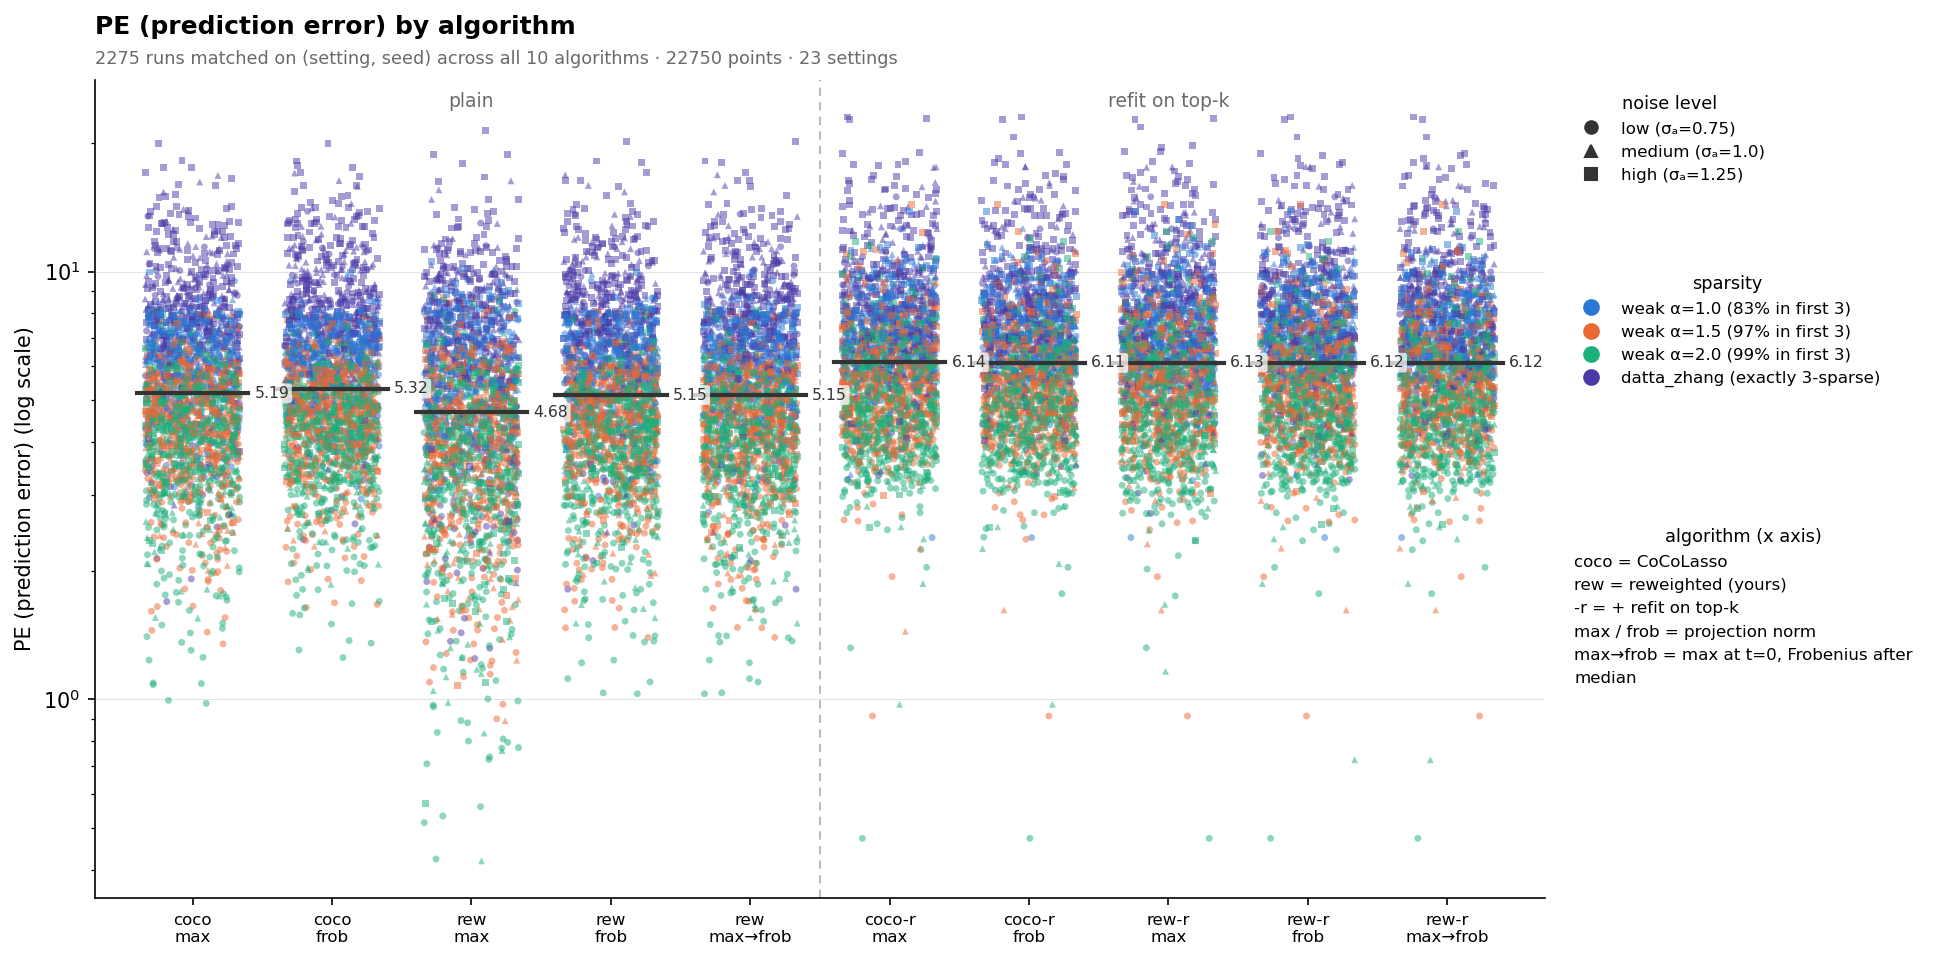
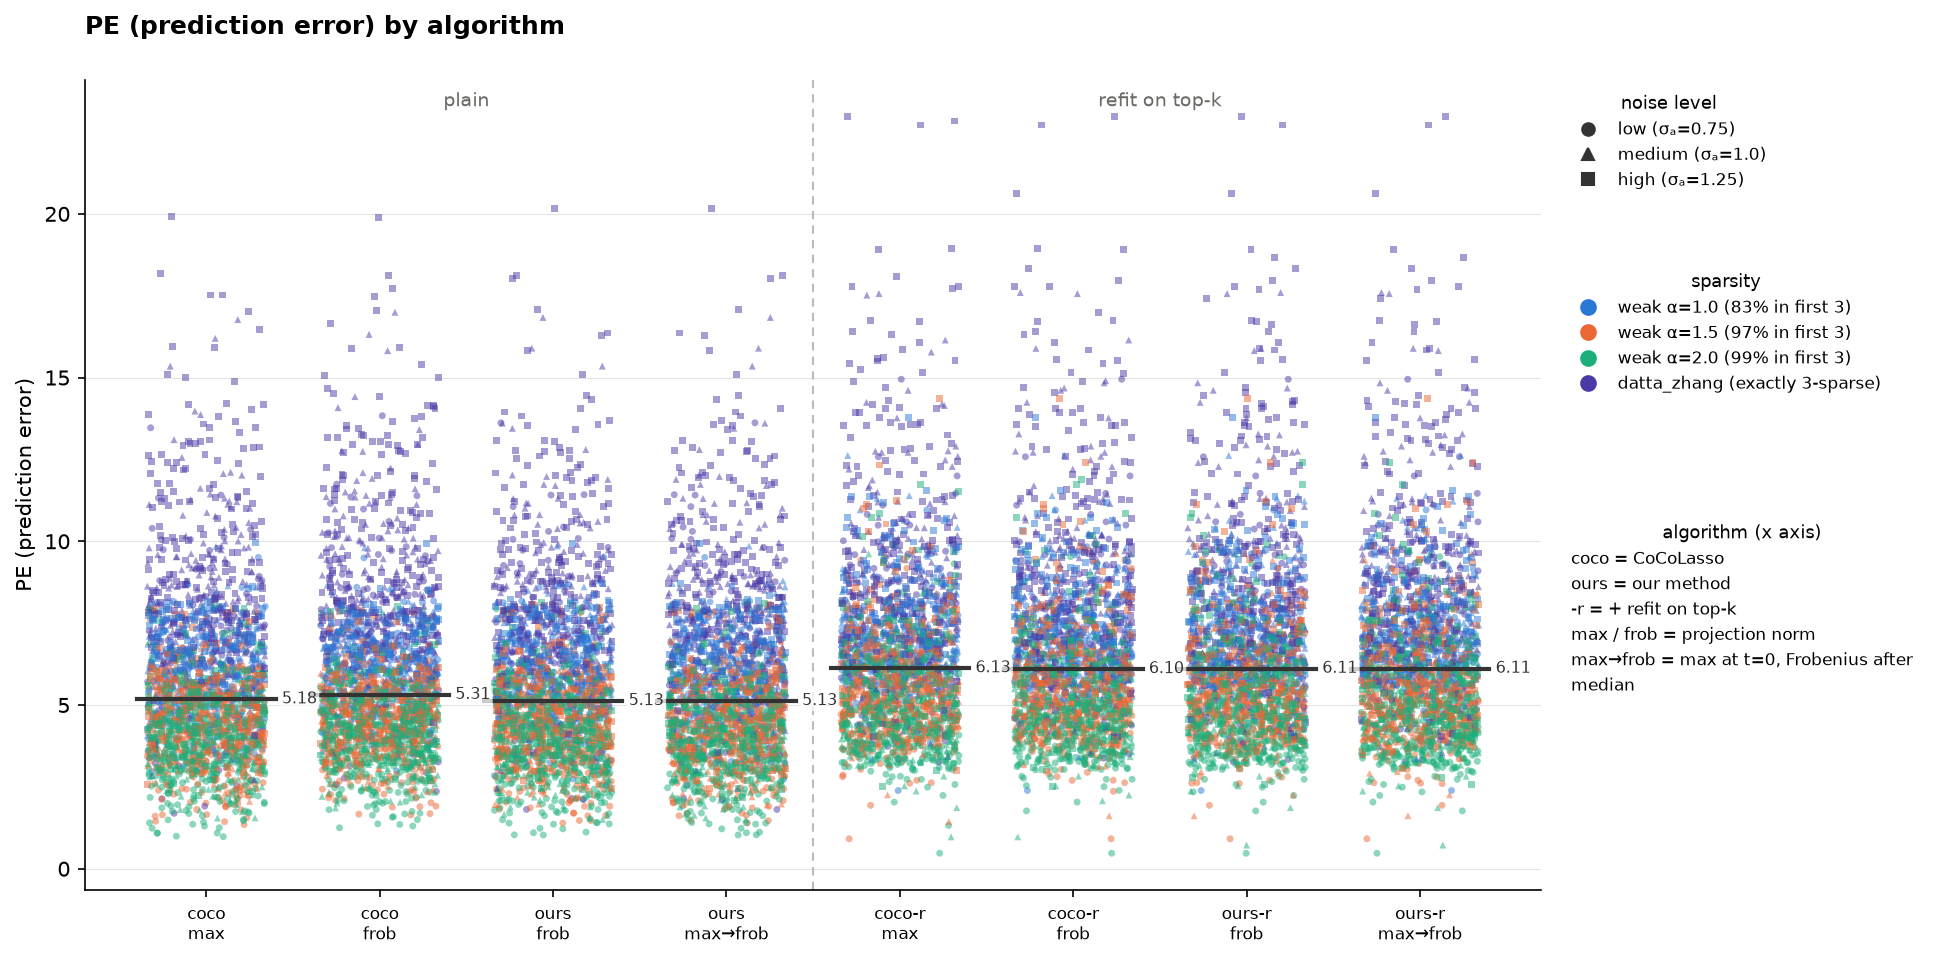
All-algorithm plots: label our method 'ours', drop subtitle, linear y axis
Claude-Session: https://claude.ai/code/session_01V3J21QpHByCopFrXppzNqQ

diff --git a/plot_all_losses.py b/plot_all_losses.py
@@ -46,16 +46,16 @@ ARM_ORDER = [
 ARM_TICK = {
     "cocolasso_max": "coco\nmax",
     "cocolasso_frobenius": "coco\nfrob",
-    "reweighted_max": "rew\nmax",
-    "reweighted_frobenius": "rew\nfrob",
-    "reweighted_max_then_frobenius": "rew\nmax→frob",
+    "reweighted_max": "ours\nmax",
+    "reweighted_frobenius": "ours\nfrob",
+    "reweighted_max_then_frobenius": "ours\nmax→frob",
     "cocolasso_refit_max": "coco-r\nmax",
     "cocolasso_refit_frobenius": "coco-r\nfrob",
-    "reweighted_refit_max": "rew-r\nmax",
-    "reweighted_refit_frobenius": "rew-r\nfrob",
-    "reweighted_refit_max_then_frobenius": "rew-r\nmax→frob",
+    "reweighted_refit_max": "ours-r\nmax",
+    "reweighted_refit_frobenius": "ours-r\nfrob",
+    "reweighted_refit_max_then_frobenius": "ours-r\nmax→frob",
 }
-ARM_KEY = [("coco", "CoCoLasso"), ("rew", "reweighted (yours)"),
+ARM_KEY = [("coco", "CoCoLasso"), ("ours", "our method"),
            ("-r", "+ refit on top-k"),
            ("max / frob", "projection norm"),
            ("max→frob", "max at t=0, Frobenius after")]
@@ -100,7 +100,7 @@ def matched(df: pd.DataFrame, arms: list[str]):
     return out, inter
 
 
-def plot(tab, arms, metric, out_path, logy=True):
+def plot(tab, arms, metric, out_path, logy=False):
     fig, ax = plt.subplots(figsize=(13, 6.5), dpi=150)
     rng = np.random.default_rng(0)
     noises = [n for n in NOISE_ORDER if n in set(tab["noise_level"])]
@@ -168,13 +168,8 @@ def plot(tab, arms, metric, out_path, logy=True):
               loc="upper left", bbox_to_anchor=(1.01, 0.47),
               fontsize=8, title_fontsize=8.5, handlelength=0, handletextpad=0)
 
-    n_match = len(tab) // max(len(arms), 1)
     ax.set_title(f"{METRIC_LABEL.get(metric, metric.upper())} by algorithm",
                  fontsize=12, fontweight="bold", loc="left", pad=22)
-    ax.text(0.0, 1.015, f"{n_match} runs matched on (setting, seed) across all "
-                        f"{len(arms)} algorithms · {len(tab)} points · "
-                        f"{tab['setting'].nunique()} settings",
-            transform=ax.transAxes, fontsize=8.5, color="#6b6a66", va="bottom")
     fig.tight_layout()
     fig.savefig(out_path, bbox_inches="tight")
     plt.close(fig)
@@ -194,7 +189,7 @@ def main(argv=None) -> int:
                     help="algorithms to leave out of the comparison entirely "
                          "[default: the two pure-max reweighted arms]")
     ap.add_argument("--out", default=None)
-    ap.add_argument("--linear", action="store_true", help="linear y axis")
+    ap.add_argument("--log", action="store_true", help="log y axis")
     args = ap.parse_args(argv)
 
     df = pd.read_csv(args.csv)
@@ -218,7 +213,7 @@ def main(argv=None) -> int:
     out = Path(args.out) if args.out else Path(
         f"results/all_algorithms_{args.metric}.png")
     out.parent.mkdir(parents=True, exist_ok=True)
-    plot(tab, arms, args.metric, out, logy=not args.linear)
+    plot(tab, arms, args.metric, out, logy=args.log)
     print(f"\nwrote {out}")
     return 0
 
